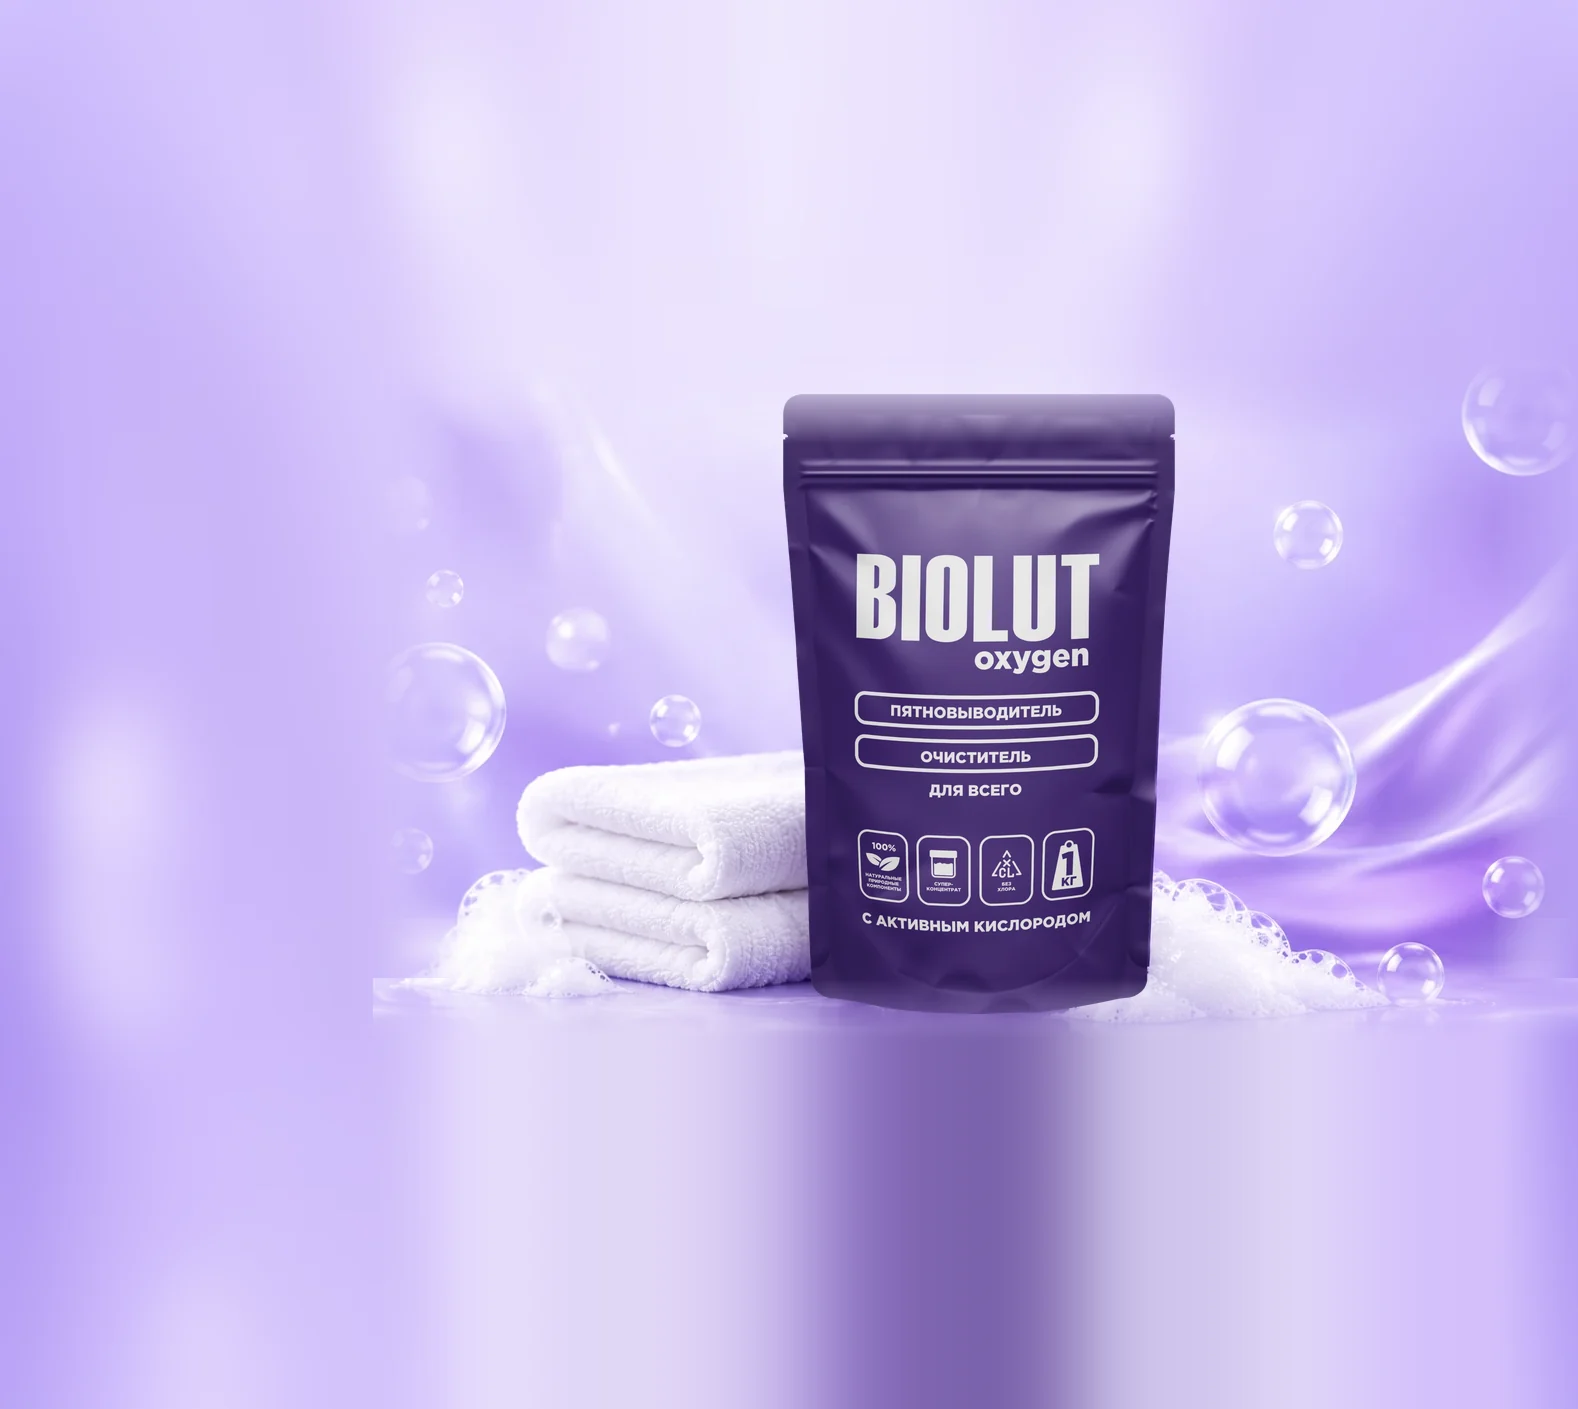
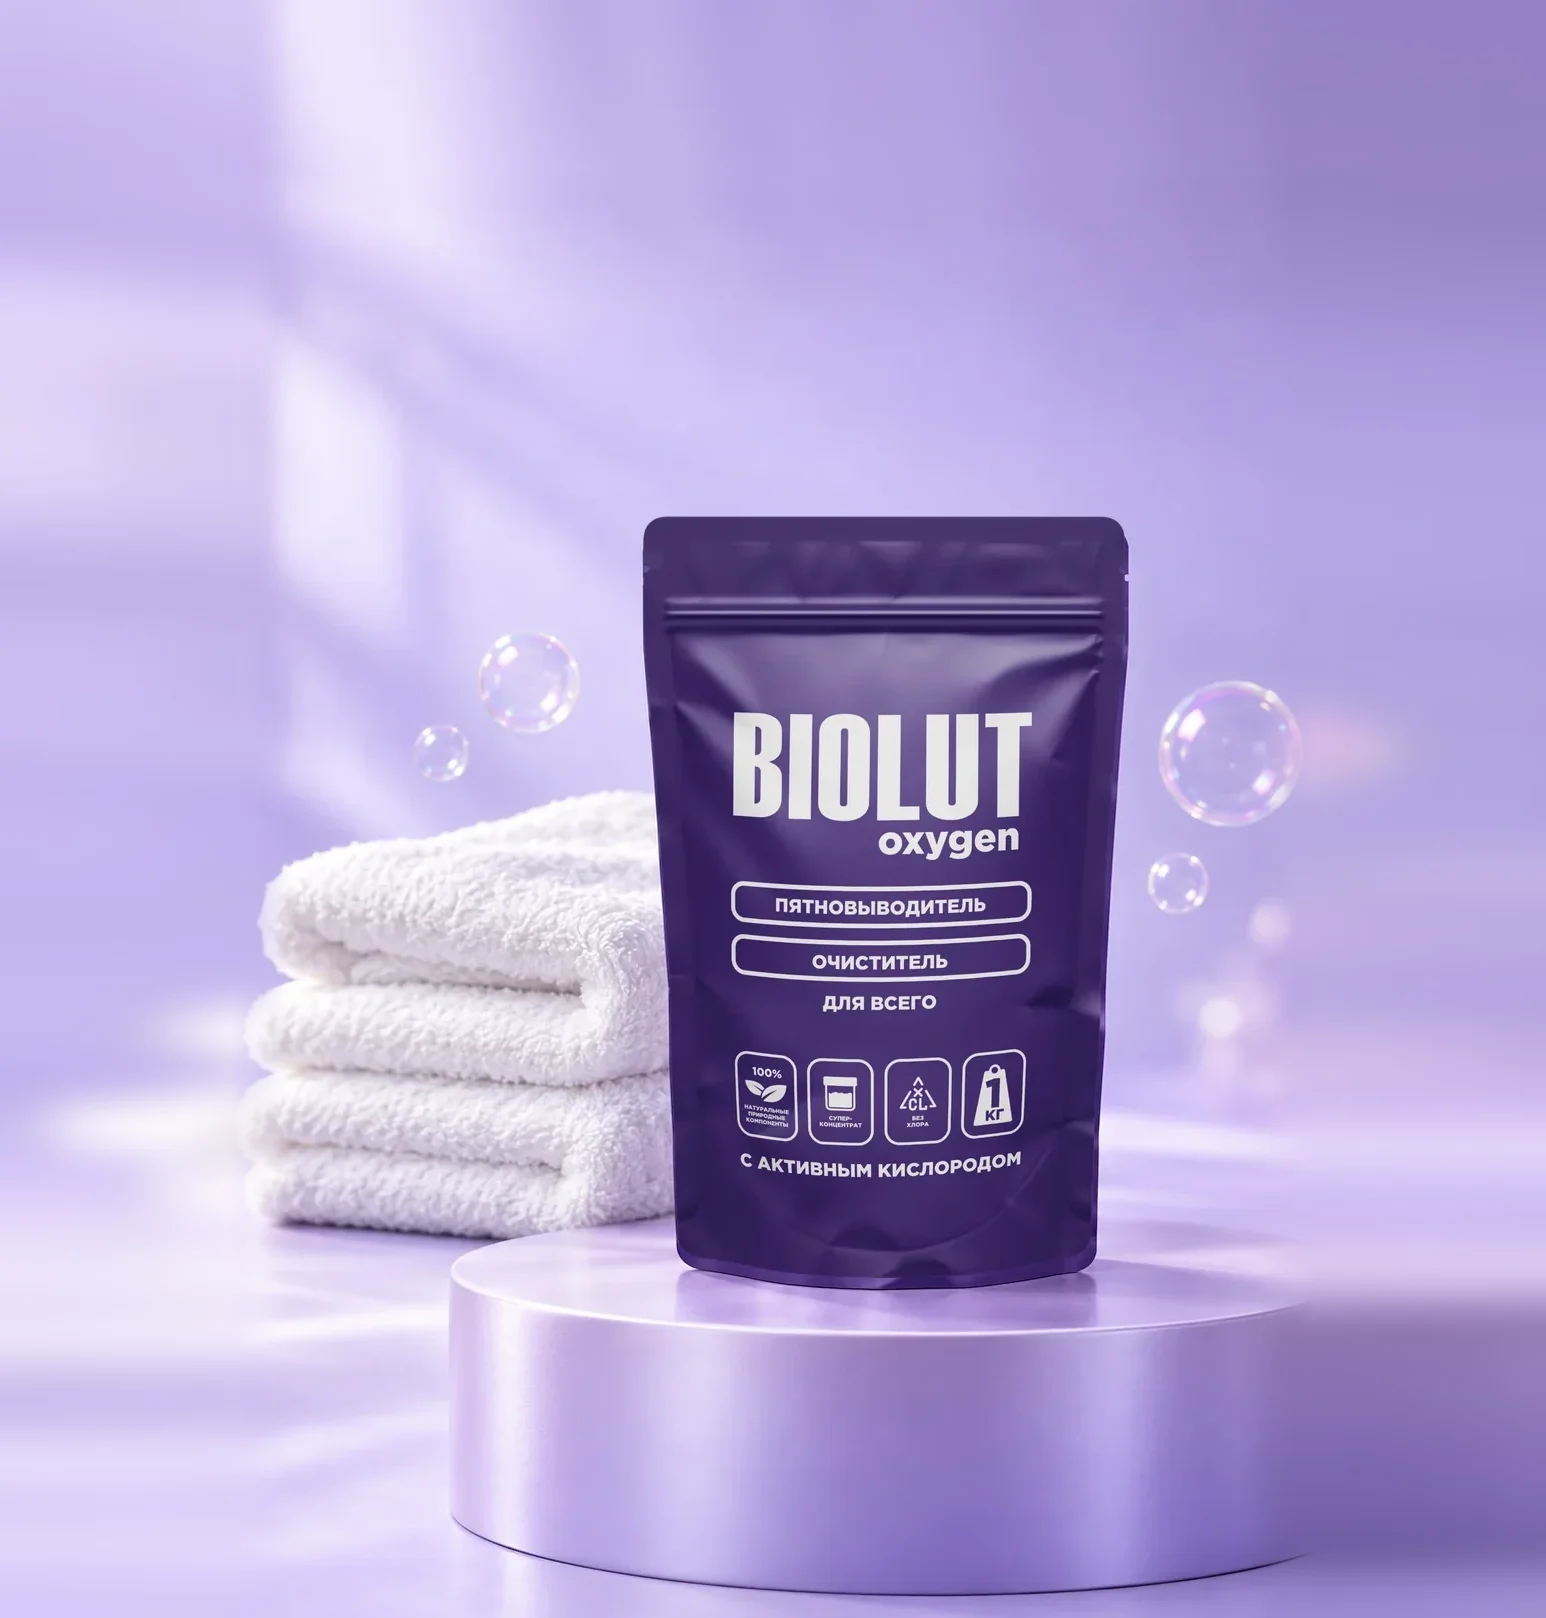
Карточка «Бытовая химия»: вертикальная сцена с оригинальной упаковкой Biolut Oxygen
Claude-Session: https://claude.ai/code/session_01NrjMZLUvLXUEoWuvL9qRjd

diff --git a/v7/index.html b/v7/index.html
@@ -71,7 +71,7 @@
         <span class="cat__go">Перейти <svg class="arrow" aria-hidden="true"><use href="#arrow"/></svg></span>
         <span class="cat__stage" aria-hidden="true"><i class="cb cb--1"></i><i class="cb cb--2"></i><i class="cb cb--3"></i></span>
       </a>
-      <a class="cat cat--biolut bubbles cat--photo" href="catalog.html?cat=bytovaya-himiya" style="--photo: url(../assets/products/cat-himiya.webp?v=3)">
+      <a class="cat cat--biolut bubbles cat--photo" href="catalog.html?cat=bytovaya-himiya" style="--photo: url(../assets/products/cat-himiya.webp?v=6)">
         <span class="cat__title">Бытовая<br>химия</span>
         <span class="cat__sub">Стирка, посуда<br>и уборка</span>
         <span class="cat__go">Перейти <svg class="arrow" aria-hidden="true"><use href="#arrow"/></svg></span>

diff --git a/v7/styles.css b/v7/styles.css
@@ -675,6 +675,7 @@ h1, h2, h3 { margin: 0; }
 .cat--photo .cat__sub { max-width: 48% !important; }
 .cat--biolut.cat--photo { background-color: #D9CBF6; }
 .cat--biolut.cat--photo .cat__sub { max-width: 60% !important; }
+.cat--biolut.cat--photo { background-position: 60% bottom; }
 .cat--kids.cat--photo { background-color: #BFE3F5; }
 .cat--kids.cat--photo .cat__sub { max-width: 60% !important; }
 .cat--pets.cat--photo { background-color: #F6DDBF; } .cat--pets.cat--photo .cat__sub { max-width: 60% !important; }
